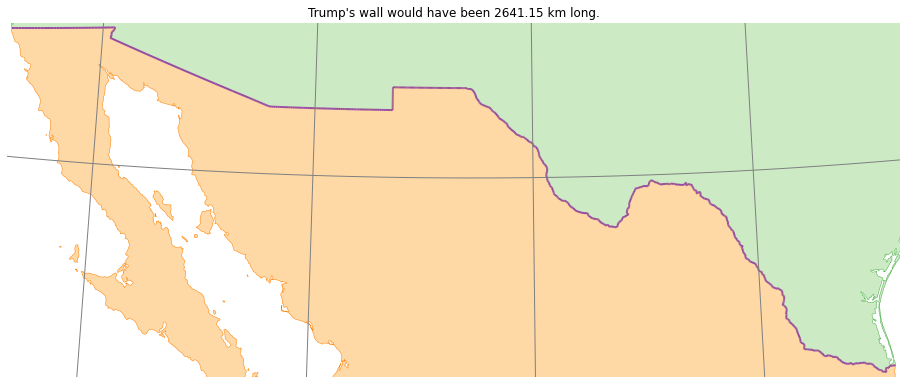
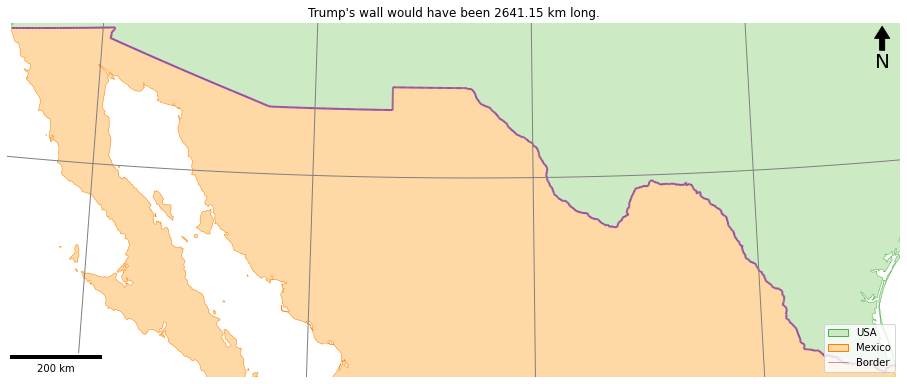
Wall Map with Legend

Changed region(s): [[0.8953, 0.8438, 0.9879, 0.9688], [0.0, 0.9062, 0.1235, 0.9688], [0.957, 0.0625, 0.9879, 0.1875]]

diff --git a/week2/myweek2.py b/week2/myweek2.py
@@ -8,6 +8,9 @@ Created on Tue Oct  7 12:47:55 2025
 from geopandas import read_file, GeoSeries
 from matplotlib.pyplot import subplots, savefig, title
 from pyproj import Geod
+from matplotlib_scalebar.scalebar import ScaleBar
+from matplotlib.lines import Line2D
+from matplotlib.patches import Patch
 
 # load the shapefile of countries - this gives a table of 12 columns and 246 rows (one per country)
 world = read_file("../../data/natural-earth/ne_10m_admin_0_countries.shp")
@@ -136,6 +139,9 @@ my_ax.axis('off')
 title(f"Trump's wall would have been {cumulative_length / 1000:.2f} km long.")
 
 # project border
+#NOTE - we had to transform all datasets into Lamber Conformal Conic projection using the .to_crs() fucntion of the GDF GeoSeries order 
+#set GeoSeries using constructor into the same thing as CRS usign world dataset before transforming
+
 border_series = GeoSeries(border, crs=world.crs).to_crs(lambert_conic)
 
 # extract the bounds from the (projected) GeoSeries Object
@@ -145,6 +151,13 @@ minx, miny, maxx, maxy = border_series.geometry.iloc[0].bounds
 buffer = 10000
 my_ax.set_xlim([minx - buffer, maxx + buffer])
 my_ax.set_ylim([miny - buffer, maxy + buffer])
+
+#the 2 secotions of code exaplined here:
+#this is setting the bounds of the output map to match the border later otherwise it owuld  be a map of thew whole world 
+#the first line is usign a variable expanison - .bounds returns a list of 4 values [maxy etc.] 
+#this is python expanding into 4 variables for us
+#easier than sotrign as single variables in diffeent parts but more confusin 
+#a 10km buffer is added to the bounds to stop it toucheing the edge of the map - more pretty looking 
 
 # plot data
 usa.to_crs(lambert_conic).plot(
@@ -169,6 +182,26 @@ graticule.to_crs(lambert_conic).plot(
     color='grey',
     linewidth = 1,
     )
+
+#had to remove border creating code so we could make this new map 
+
+# add north arrow
+x, y, arrow_length = 0.98, 0.99, 0.1
+my_ax.annotate('N', xy=(x, y), xytext=(x, y-arrow_length),
+	arrowprops=dict(facecolor='black', width=5, headwidth=15),
+	ha='center', va='center', fontsize=20, xycoords=my_ax.transAxes)
+
+# add scalebar
+my_ax.add_artist(ScaleBar(dx=1, units="m", location="lower left", length_fraction=0.25))
+
+#to add a legend the constction details are in the mapplotlib legend documentation, guide and this tut (among others) 
+
+# add legend
+my_ax.legend(handles=[
+        Patch(facecolor='#ccebc5', edgecolor='#4daf4a', label='USA'),
+        Patch(facecolor='#fed9a6', edgecolor='#ff7f00', label='Mexico'),
+        Line2D([0], [0], color='#984ea3',  lw=0.6, label='Border')
+    ],loc='lower right')
 
 # save the result
 savefig('out/2.png', bbox_inches='tight')
